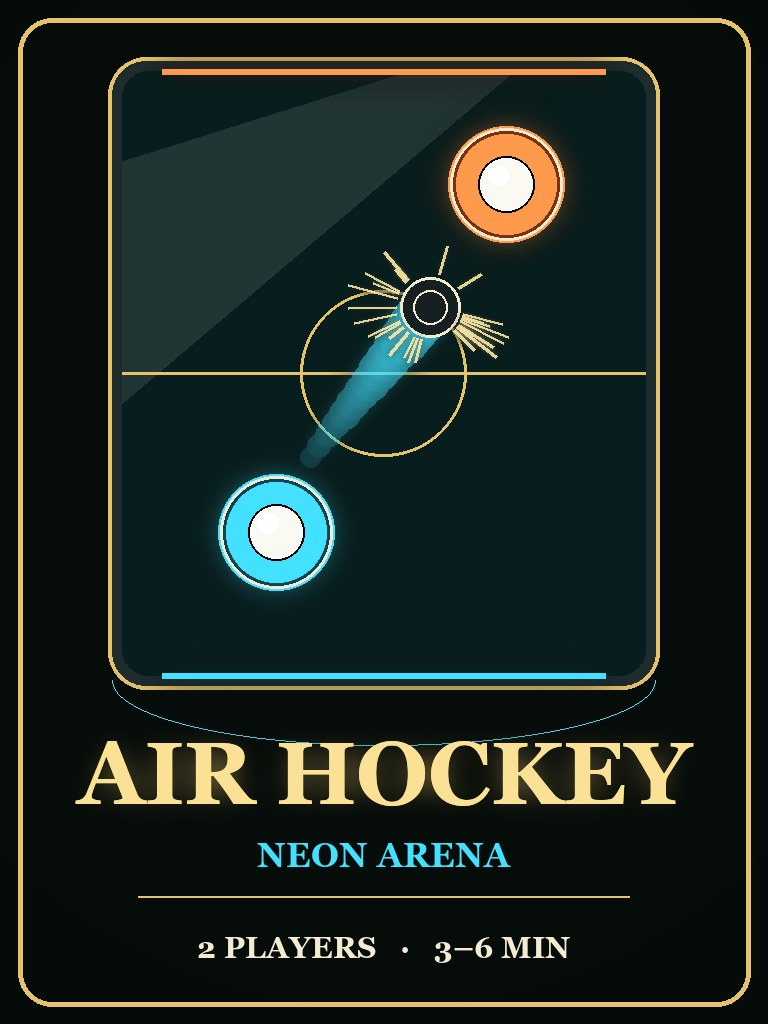
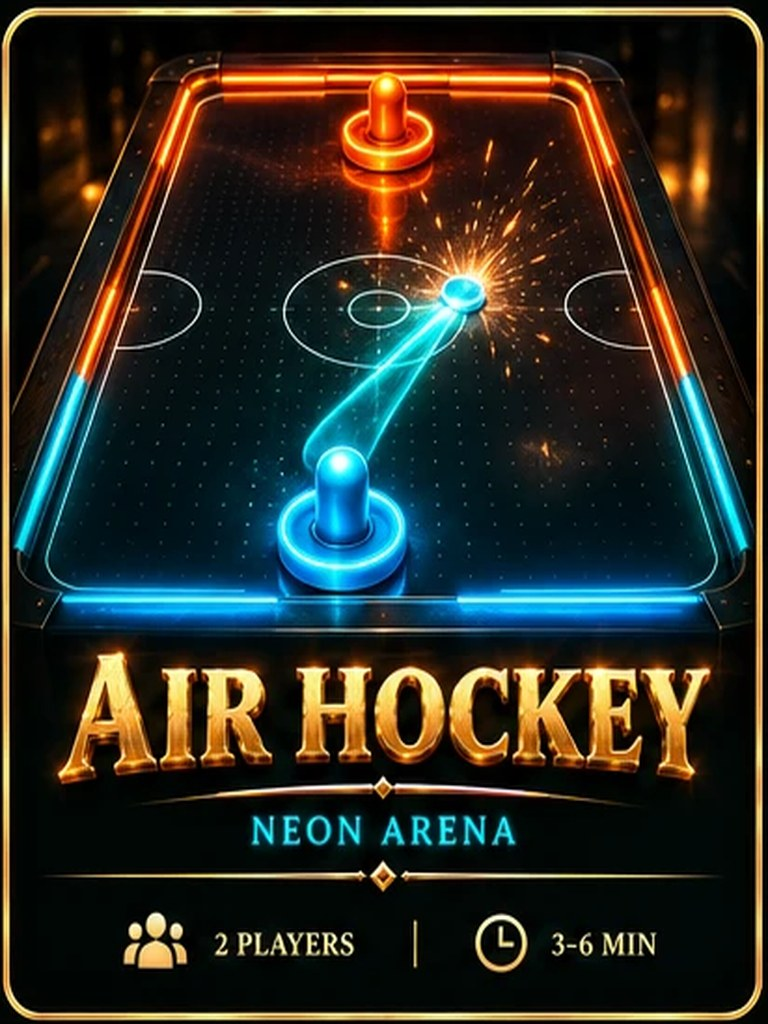
Arcade art: the real covers from the ChatGPT sheet (Air Hockey now, Pong, Pool and Invaders prepared for later) and the Arcade room tile; cache v46

diff --git a/sw.js b/sw.js
@@ -3,7 +3,7 @@
 // app shell itself. Multiplayer still needs a live connection (Supabase requests are always
 // passed straight through to the network, never cached), so this is about the shell — the HTML,
 // icons, and manifest — not about playing an online game with no signal.
-const CACHE_NAME = 'our-table-v45';
+const CACHE_NAME = 'our-table-v46';
 // Pictures live in their OWN cache, which a new app version does not throw away: the ~12 MB of covers,
 // room pictures and avatars used to be downloaded again from scratch on every visit (network-first with
 // no-store) and again on every release, so on a slow connection the home screen painted only the top strip
@@ -12,7 +12,7 @@ const CACHE_NAME = 'our-table-v45';
 const ASSET_CACHE = 'our-table-assets-v1';
 // Pictures replaced in place under the same name: dropped from ASSET_CACHE on every activation so the new file is fetched (a few hundred KB;
 // leaving a name in this list is harmless). Without this, devices that had already loaded the old picture kept showing it for ever.
-const REPLACED_ASSETS = ['./assets/games/blackwater.jpg'];
+const REPLACED_ASSETS = ['./assets/games/blackwater.jpg','./assets/games/airhockey.jpg','./assets/rooms/arcade.jpg'];
 const APP_SHELL = [
   './CardTableV17_2fixed.html',
   './manifest.json',
